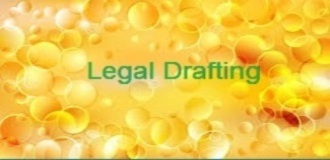
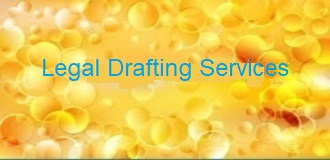
Fine Tuning

Changed region(s): [[0.1212, 0.3438, 0.8788, 0.5625]]

diff --git a/index.html b/index.html
@@ -349,7 +349,7 @@
                     <div class="card">
                       <img src="./images/Legal Drafting Shutter1.jpg" class="card-img-top pic1 img-fluid" alt="...">           
                       <div class="card-body">
-                        <p font-size="1rem" class="card-title text-center text-success fs-5 fw-bold">Online Legal Drafting</p>
+                        <p font-size="1rem" class="card-title text-center text-success fs-5 fw-bold">Online Legal Drafting Services</p>
                         <p class="card-text old text-success">Legal Drafting is now at your finger-tips. With Online Legal Drafting, you now need not step out of the comforts of your home or office for preparing any  legal documents such as Agreement, 
                           Notice, Affidavit, MoU, Partnership-Deed, Lease-Deed, Sale-Deed, Will, Bond, Power of Attorney etc... <br><br>Simply follow the 5 steps mentioned in the ‘Drafting’ page and the requisite document will 
                           be ready on your table.<br><br> Curious to know who is preparing the said documents and other details? click on 'Drafting' Page or 'Read more'.</p>

diff --git a/Contact.html b/Contact.html
@@ -154,7 +154,7 @@
     <section>
       <div class="container-fluid">
         <div class="row h3">
-          <div class="col-md-3 fs-5 bg-white text-primary fw-normal">Legal Drafting</div>
+          <div class="col-md-3 fs-5 bg-white text-primary fw-normal">Legal Drafting Services</div>
           <div class="col-md-3 fs-5 bg-white text-primary fw-normal">Deeds Drafting</div>
           <div class="col-md-3 fs-5 bg-white text-primary fw-normal">Legal Documents Drafting</div>
           <div class="col-md-3 fs-5 bg-white text-primary fw-normal">Legal Agreements <br> Drafting

diff --git a/Paralegal.html b/Paralegal.html
@@ -160,7 +160,7 @@
     <section>
       <div class="container-fluid">
         <div class="row h3">
-          <div class="col-md-3 fs-5 bg-white text-primary fw-normal">Legal Drafting</div>
+          <div class="col-md-3 fs-5 bg-white text-primary fw-normal">Legal Drafting Services</div>
           <div class="col-md-3 fs-5 bg-white text-primary fw-normal">Deeds Drafting</div>
           <div class="col-md-3 fs-5 bg-white text-primary fw-normal">Legal Documents Drafting</div>
           <div class="col-md-3 fs-5 bg-white text-primary fw-normal">Legal Agreements <br> Drafting
